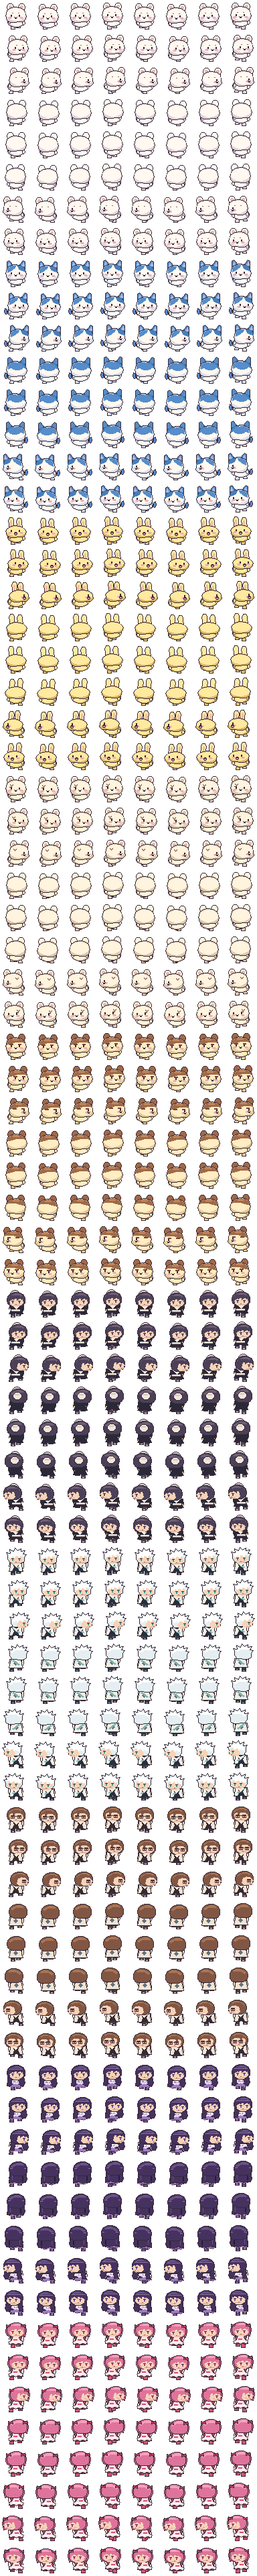
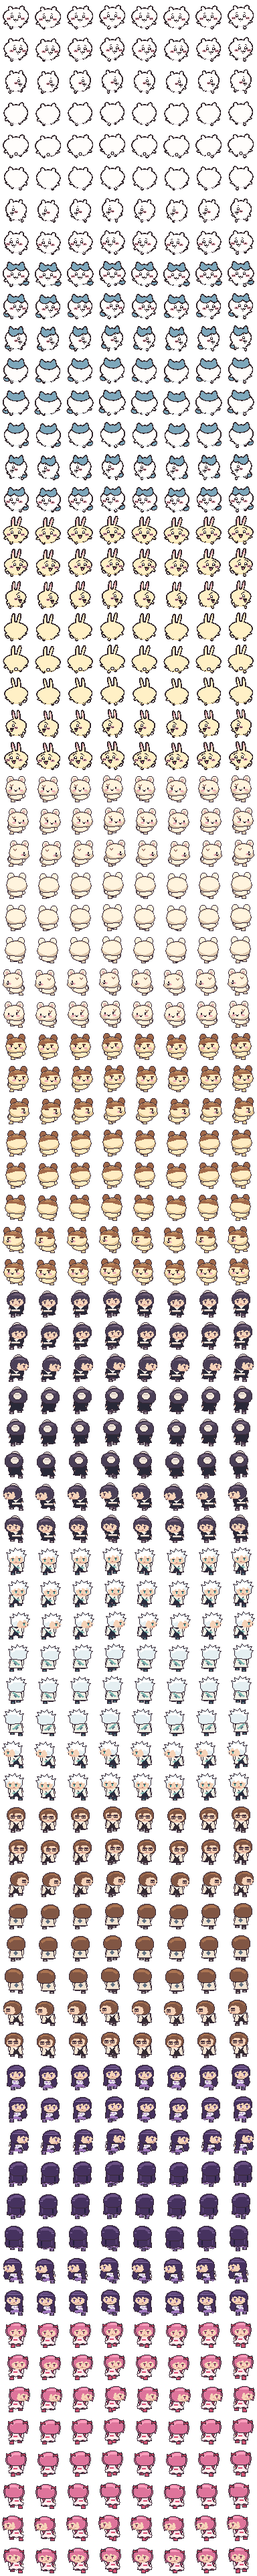
Redraw the Chiikawa, Usagi and Hachiware resident sprites

Changed region(s): [[0.0, 0.0, 1.0, 0.3125]]

diff --git a/scripts/build-guest-sprites.py b/scripts/build-guest-sprites.py
@@ -12,9 +12,6 @@ SHADE = '#d9a492'
 IDS = ('chiikawa', 'hachiware', 'usagi', 'rakko', 'kurimanju',
        'momo', 'toshiro', 'aizen', 'homura', 'madoka')
 FUR = {
-    'chiikawa': ('#fff9f0', '#e1d2dc', '#f7afbc'),
-    'hachiware': ('#fff9f0', '#d9dfef', '#568dca'),
-    'usagi': ('#ffea9f', '#dfb86e', '#f7baaa'),
     'rakko': ('#fff4de', '#dfc8ae', '#a57d6e'),
     'kurimanju': ('#ffedc3', '#e5c897', '#a1694a'),
 }
@@ -31,9 +28,156 @@ RISE = ((0, -2), (0, -3), (0, -4), (0, -2), (-2, 0), (-3, 0), (-4, 0), (-2, 0))
 BOB = (0, 1, 0, -1, 0, 1, 0, -1)
 
 
+# The trio shares a rounded, continuous silhouette. Ear and cap contours
+# attach to the face so there is no separate band between the head and body.
+STORYBOOK_FUR = {
+    'chiikawa': ('#fffdfb', '#e9e2e6'),
+    'hachiware': ('#fffdfb', '#e3ebef'),
+    'usagi': ('#fff0c6', '#f2d99d'),
+}
+STORYBOOK_CROWNS = {
+    'chiikawa': ((36, 14), (37, 10, 34, 8, 31, 10), (30, 10, 29, 12, 29, 13),
+                 (26, 12, 22, 12, 19, 13), (18, 9, 14, 9, 13, 11),
+                 (12, 12, 12, 14, 13, 15)),
+    'hachiware': ((38, 16), (36, 14, 37, 9, 34, 7), (32, 6, 30, 9, 28, 11),
+                  (25, 10, 22, 10, 20, 11), (18, 10, 15, 6, 13, 7),
+                  (11, 8, 11, 13, 10, 15)),
+    'usagi': ((29, 16), (31, 11, 33, 5, 31, 3), (28, 1, 26, 9, 25, 15),
+              (24, 15, 23, 15, 22, 15), (22, 10, 23, 3, 21, 3),
+              (18, 2, 16, 9, 17, 16)),
+}
+
+
+def storybook_sprite(resident, direction, frame=None, portrait=False):
+    scale = 6
+    image = Image.new('RGBA', (CELL * scale, CELL * scale))
+    draw = ImageDraw.Draw(image)
+    fur, shade = STORYBOOK_FUR[resident]
+    ink, blue, blush = '#31252a', '#7da7bb', '#f6b5c0'
+    bob = BOB[frame] if frame is not None else 0
+    stride = STRIDE[frame] if frame is not None else (0, 0)
+    rise = RISE[frame] if frame is not None else (0, 0)
+    side, rear = direction == 2, direction >= 3
+    width = (1, .94, .82, .94, 1)[direction]
+    crown = STORYBOOK_CROWNS[resident]
+
+    def point(x, y):
+        return (round(((x - 24) * width + 24) * scale), round((y + bob) * scale))
+
+    def path(segments, fill=None, stroke=0):
+        x, y = segments[0]
+        points = [point(x, y)]
+        for a, b, c, d, u, v in segments[1:]:
+            for n in range(1, 13):
+                t = n / 12
+                s = 1 - t
+                points.append(point(s**3*x + 3*s*s*t*a + 3*s*t*t*c + t**3*u,
+                                    s**3*y + 3*s*s*t*b + 3*s*t*t*d + t**3*v))
+            x, y = u, v
+        if fill:
+            draw.polygon(points, fill=fill)
+            if stroke:
+                points.append(points[0])
+        if stroke:
+            draw.line(points, fill=ink, width=round(scale * stroke), joint='curve')
+            for a, b in (points[0], points[-1]):
+                r = scale * stroke / 2
+                draw.ellipse((a - r, b - r, a + r, b + r), fill=ink)
+
+    def oval(x, y, w, h, color, stroke=0):
+        draw.ellipse((*point(x - w / 2, y - h / 2), *point(x + w / 2, y + h / 2)),
+                     fill=color, outline=ink if stroke else None, width=round(scale * stroke))
+
+    if resident == 'hachiware' and direction == 0:
+        path(((33, 37), (36, 37, 38, 35, 40, 35), (45, 35, 43, 41, 39, 41),
+              (37, 41, 35, 40, 33, 39)), blue, 1.45)
+    elif resident == 'hachiware':
+        path(((15, 36), (13, 36, 11, 36, 9, 35), (3, 32, 3, 38, 7, 40),
+              (9, 41, 13, 40, 16, 38)), blue, 1.45)
+    elif resident == 'usagi' and 0 < direction < 4:
+        oval(11, 37, 7, 6, '#fffdfb', 1.35)
+
+    # Anchor the feet to the same ground line in every view while the body bobs.
+    centers = (15, 31) if side else (18, 29)
+    for i, center in sorted(enumerate(centers), key=lambda item: rise[item[0]]):
+        foot_x = center + stride[i] * (0.75 if side else 0.35)
+        foot_y = GROUND + rise[i] - bob - 1.7
+        oval(foot_x, foot_y, 5.5, 5, fur, 1.45)
+
+    arm_left = 0 if frame is None else stride[1] * .45
+    arm_right = 0 if frame is None else stride[0] * .45
+    right_crown_x, right_crown_y = crown[0]
+    left_crown_x, left_crown_y = crown[-1][-2:]
+    path((crown[0], *crown[1:],
+          (3, left_crown_y + 4, 3, 27, 9, 32),
+          (5, 32 + arm_left, 5, 36 + arm_left, 11, 35),
+          (12, 41.5, 33, 43, 36, 35),
+          (41, 36 + arm_right, 43, 33 + arm_right, 38, 32),
+          (45, 27, 44, right_crown_y + 5, right_crown_x, right_crown_y)), fur, 1.65)
+    path(((13, 37), (18, 41, 29, 42, 34, 37), (32, 42, 17, 43, 13, 37)), shade)
+
+    if resident == 'hachiware':
+        edge = ((12, 20, 19, 21, 24, 16), (29, 21, 35, 21, 38, 16))
+        if side:
+            edge = ((14, 23, 22, 23, 29, 17), (32, 18, 35, 19, 38, 16))
+        elif rear:
+            edge = ((15, 24, 33, 24, 38, 16),)
+        elif direction == 1:
+            edge = ((14, 21, 22, 21, 27, 16), (31, 20, 35, 20, 38, 16))
+        path((*crown, *edge), blue, 1.55)
+    if direction == 4 and resident != 'hachiware':
+        oval(24, 37.5, 6 if resident == 'usagi' else 5, 5, '#fffdfb', 1.2)
+    if resident == 'usagi' and not rear:
+        path(((18.7, 14), (17.8, 10, 19, 4.5, 20.3, 4.5),
+              (21.7, 4.6, 19.6, 11.2, 19.6, 14)), blush)
+        path(((26.1, 14), (26.6, 10, 29, 4, 30.2, 4.4),
+              (31.4, 5.3, 28.4, 12, 27.4, 14)), blush)
+    if not rear:
+        shift = (0, 4, 8)[direction]
+        face_y = 1 if resident == 'usagi' else 0
+        eyes = (21 + shift,) if side else (18 + shift, 29 + shift * .66)
+        cheeks = (16 + shift,) if side else (13 + shift, 34 + shift * .70)
+        for cheek in cheeks:
+            oval(cheek, 28 + face_y, 6.8, 4.7, blush)
+            for dx in (-1.55, 0, 1.55):
+                x, y = cheek + dx, 28 + face_y
+                path(((x - .35, y + .75), (x, y, x, y, x + .35, y - .75)), stroke=.75)
+        for x in eyes:
+            y = 24.8 + face_y
+            oval(x, y, 4.8, 4.95, ink)
+            oval(x - .25, y - .70, 2.25, 1.85, '#fffdfb')
+            oval(x + .1, y + 1.3, 1.45, .65, '#fffdfb')
+            if resident == 'usagi':
+                sign = 1 if x == eyes[0] else -1
+                path(((x - 3.5*sign, y - 3), (x - 3*sign, y - 5.2, x - sign, y - 6.1,
+                      x + 1.8*sign, y - 6.4)), stroke=1.05)
+            else:
+                sign = 1 if x == eyes[0] else -1
+                path(((x - 1.3*sign, y - 4.5), (x - .6*sign, y - 5.1, x, y - 5.1,
+                      x + .5*sign, y - 5)), stroke=.85)
+        mouth_x, mouth_y = 23.6 + shift, 29 + face_y
+        if resident == 'usagi':
+            path(((mouth_x - 2.1, mouth_y), (mouth_x - 1.4, mouth_y + 6.4,
+                  mouth_x + 1.4, mouth_y + 6.4, mouth_x + 2.1, mouth_y)), '#f191a7', 1.1)
+        path(((mouth_x - 3, mouth_y), (mouth_x - 2.6, mouth_y + 2, mouth_x - .2, mouth_y + 2,
+              mouth_x, mouth_y - .9), (mouth_x + .2, mouth_y + 2, mouth_x + 2.6, mouth_y + 2,
+              mouth_x + 3, mouth_y)), stroke=1.25)
+        if resident != 'usagi':
+            path(((mouth_x - .7, mouth_y + 3.1), (mouth_x - .35, mouth_y + 3.5,
+                  mouth_x + .35, mouth_y + 3.5, mouth_x + .7, mouth_y + 3.1)), stroke=.8)
+    if portrait:
+        crop = (1, 0, 47, 46) if resident == 'usagi' else (3, 4, 45, 46)
+        return image.crop(tuple(edge * scale for edge in crop)).resize(
+            (64, 64), Image.Resampling.LANCZOS)
+    return image.resize((CELL, CELL), Image.Resampling.NEAREST)
+
+
 def sprite(resident, direction, frame=None):
     if direction > 4:
         return ImageOps.mirror(sprite(resident, 8 - direction, frame))
+
+    if resident in STORYBOOK_FUR:
+        return storybook_sprite(resident, direction, frame)
 
     image = Image.new('RGBA', (CELL, CELL))
     draw = ImageDraw.Draw(image)
@@ -73,9 +217,6 @@ def sprite(resident, direction, frame=None):
     if resident in FUR:
         light, shade, accent = FUR[resident]
         feet(shade, light, True)
-        if resident == 'hachiware' and direction:
-            poly([(12, 34), (8, 36), (6, 32), (7, 27), (10, 29), (10, 33), (15, 33)],
-                 '#598acd', INK)
         if resident == 'rakko' and rear:
             oval((20, 35, 27, 41), '#b3927d', INK)
         oval((11, 25, 36, 40), shade, INK)
@@ -85,37 +226,18 @@ def sprite(resident, direction, frame=None):
             oval((x, 30 + arm_shift, x + 4, 36 + arm_shift), light, INK)
 
         shift = tilt - (2 if rear and tilt else 0)
-        if resident == 'usagi':
-            for x, top in ((14, 3), (26 if not side else 23, 4)):
-                poly([(x, 22), (x - 2, top + 4), (x, top), (x + 4, top),
-                      (x + 6, top + 4), (x + 7, 22)], light, INK, shift)
-                if not rear:
-                    rect((x + 1, top + 5, x + 3, 17), accent, shift)
-        elif resident == 'hachiware':
-            for points in ([(10, 18), (10, 6), (13, 4), (21, 13)],
-                           [(27, 13), (34, 4), (37, 6), (37, 19)]):
-                poly(points, accent, INK, shift)
-            if not rear:
-                poly([(12, 11), (13, 7), (17, 13)], '#b7b9df', offset=shift)
-                poly([(31, 13), (35, 7), (36, 12)], '#b7b9df', offset=shift)
-        else:
-            ear_color = accent if resident == 'kurimanju' else light
-            oval((10, 5, 20, 16), ear_color, INK, shift)
-            oval((27, 5, 37, 16), ear_color, INK, shift)
-            if not rear and resident != 'kurimanju':
-                oval((13, 8, 17, 12), '#e6bcb5', offset=shift)
-                oval((30, 8, 34, 12), '#e6bcb5', offset=shift)
-        top = 15 if resident == 'usagi' else 10
+        ear_color = accent if resident == 'kurimanju' else light
+        oval((10, 5, 20, 16), ear_color, INK, shift)
+        oval((27, 5, 37, 16), ear_color, INK, shift)
+        if not rear and resident != 'kurimanju':
+            oval((13, 8, 17, 12), '#e6bcb5', offset=shift)
+            oval((30, 8, 34, 12), '#e6bcb5', offset=shift)
+        top = 10
         cheek_right = 35 if not side else 32
         poly([(8, 23), (10, top + 5), (16, top + 1), (22, top),
               (30, top + 1), (36, top + 5), (39 if not side else 37, 24),
               (38, 28), (34, 32), (15, 33), (10, 30)], shade, INK, shift)
         oval((10, top + 2, 37 if not side else 36, 30), light, offset=shift)
-        if resident == 'hachiware':
-            poly([(11, 16), (16, 12), (24, 11), (22, 15), (17, 19), (11, 22)], accent, offset=shift)
-            poly([(25, 11), (32, 12), (36, 16), (37, 21), (32, 19), (28, 17)], '#477fb9', offset=shift)
-            if rear:
-                oval((15, 13, 34, 23), accent, offset=shift)
         if resident == 'kurimanju':
             poly([(10, 21), (11, 16), (16, 12), (22, 11), (29, 12), (35, 15),
                   (37, 19), (32, 17), (25, 17), (18, 19)], accent, offset=shift)
@@ -129,15 +251,8 @@ def sprite(resident, direction, frame=None):
         rect((28 if not side else 30, 22, 29 if not side else 31, 24), INK, shift + face)
         oval((cheek_right - 6, 25, cheek_right - 1, 27), '#efadb5', offset=shift)
         mouth_x = 23 + face + (8 if side else 0)
-        if resident == 'usagi':
-            oval((mouth_x - 2, 25, mouth_x + 2, 29), INK, offset=shift)
-            rect((mouth_x - 1, 27, mouth_x + 1, 28), '#eb899e', shift)
-        else:
-            poly([(mouth_x - 2, 25), (mouth_x, 26), (mouth_x + 2, 25),
-                  (mouth_x + 1, 27), (mouth_x - 1, 27)], INK, offset=shift)
-        if resident == 'chiikawa':
-            rect((18, 19, 19, 19), '#8a6873', shift + face)
-            rect((27, 19, 28, 19), '#8a6873', shift + face)
+        poly([(mouth_x - 2, 25), (mouth_x, 26), (mouth_x + 2, 25),
+              (mouth_x + 1, 27), (mouth_x - 1, 27)], INK, offset=shift)
         if resident == 'rakko':
             poly([(15, 17), (17, 19), (19, 17), (19, 18), (17, 20), (15, 18)],
                  '#9c7367', offset=shift)
@@ -269,7 +384,10 @@ def build():
             idle.paste(sprite(resident, direction), (0, y))
             for frame in range(8):
                 walk.paste(sprite(resident, direction, frame), (frame * CELL, y))
-        portrait = sprite(resident, 0).crop((8, 2, 40, 34)).resize((64, 64), Image.Resampling.NEAREST)
+        if resident in STORYBOOK_FUR:
+            portrait = storybook_sprite(resident, 0, portrait=True)
+        else:
+            portrait = sprite(resident, 0).crop((8, 2, 40, 34)).resize((64, 64), Image.Resampling.NEAREST)
         portraits.paste(portrait, (i % 5 * 64, i // 5 * 64), portrait)
     walk.save(ASSETS / 'walk.png', optimize=True)
     idle.save(ASSETS / 'idle.png', optimize=True)
